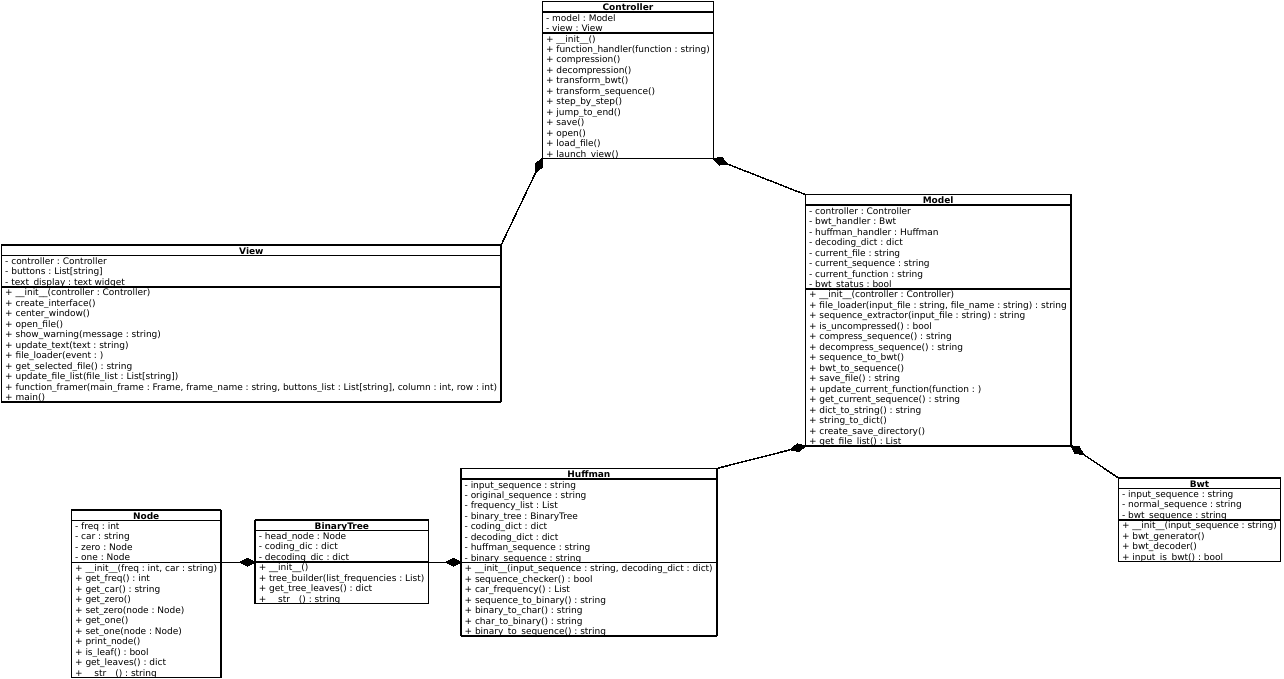
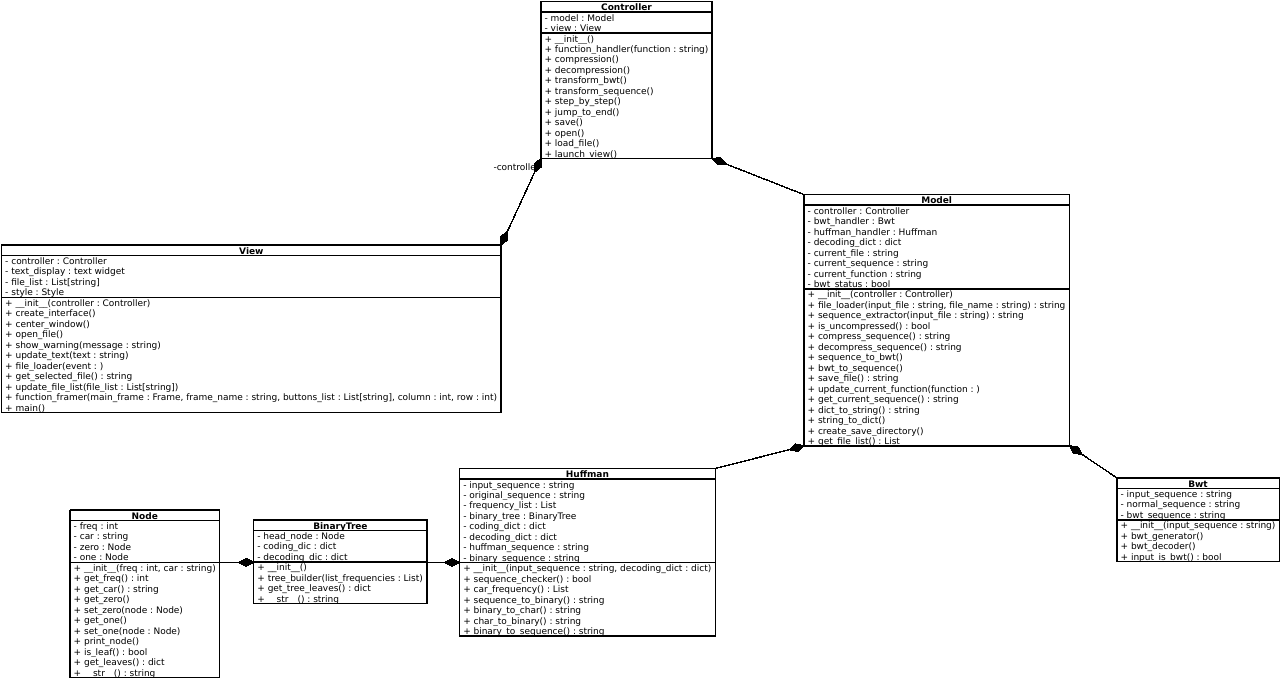
style attribute comment + updated uml graph attributes for view

diff --git a/dnashrink/view.py b/dnashrink/view.py
@@ -31,6 +31,8 @@ class View(ThemedTk):
         Text widget to display all the results
     file_list : Combobox widget
         Combobox widget to enable file loading from GUI
+    style : Style
+        Style attribute used to change buttons style
     """
 
     def __init__(self,controller) -> None:
